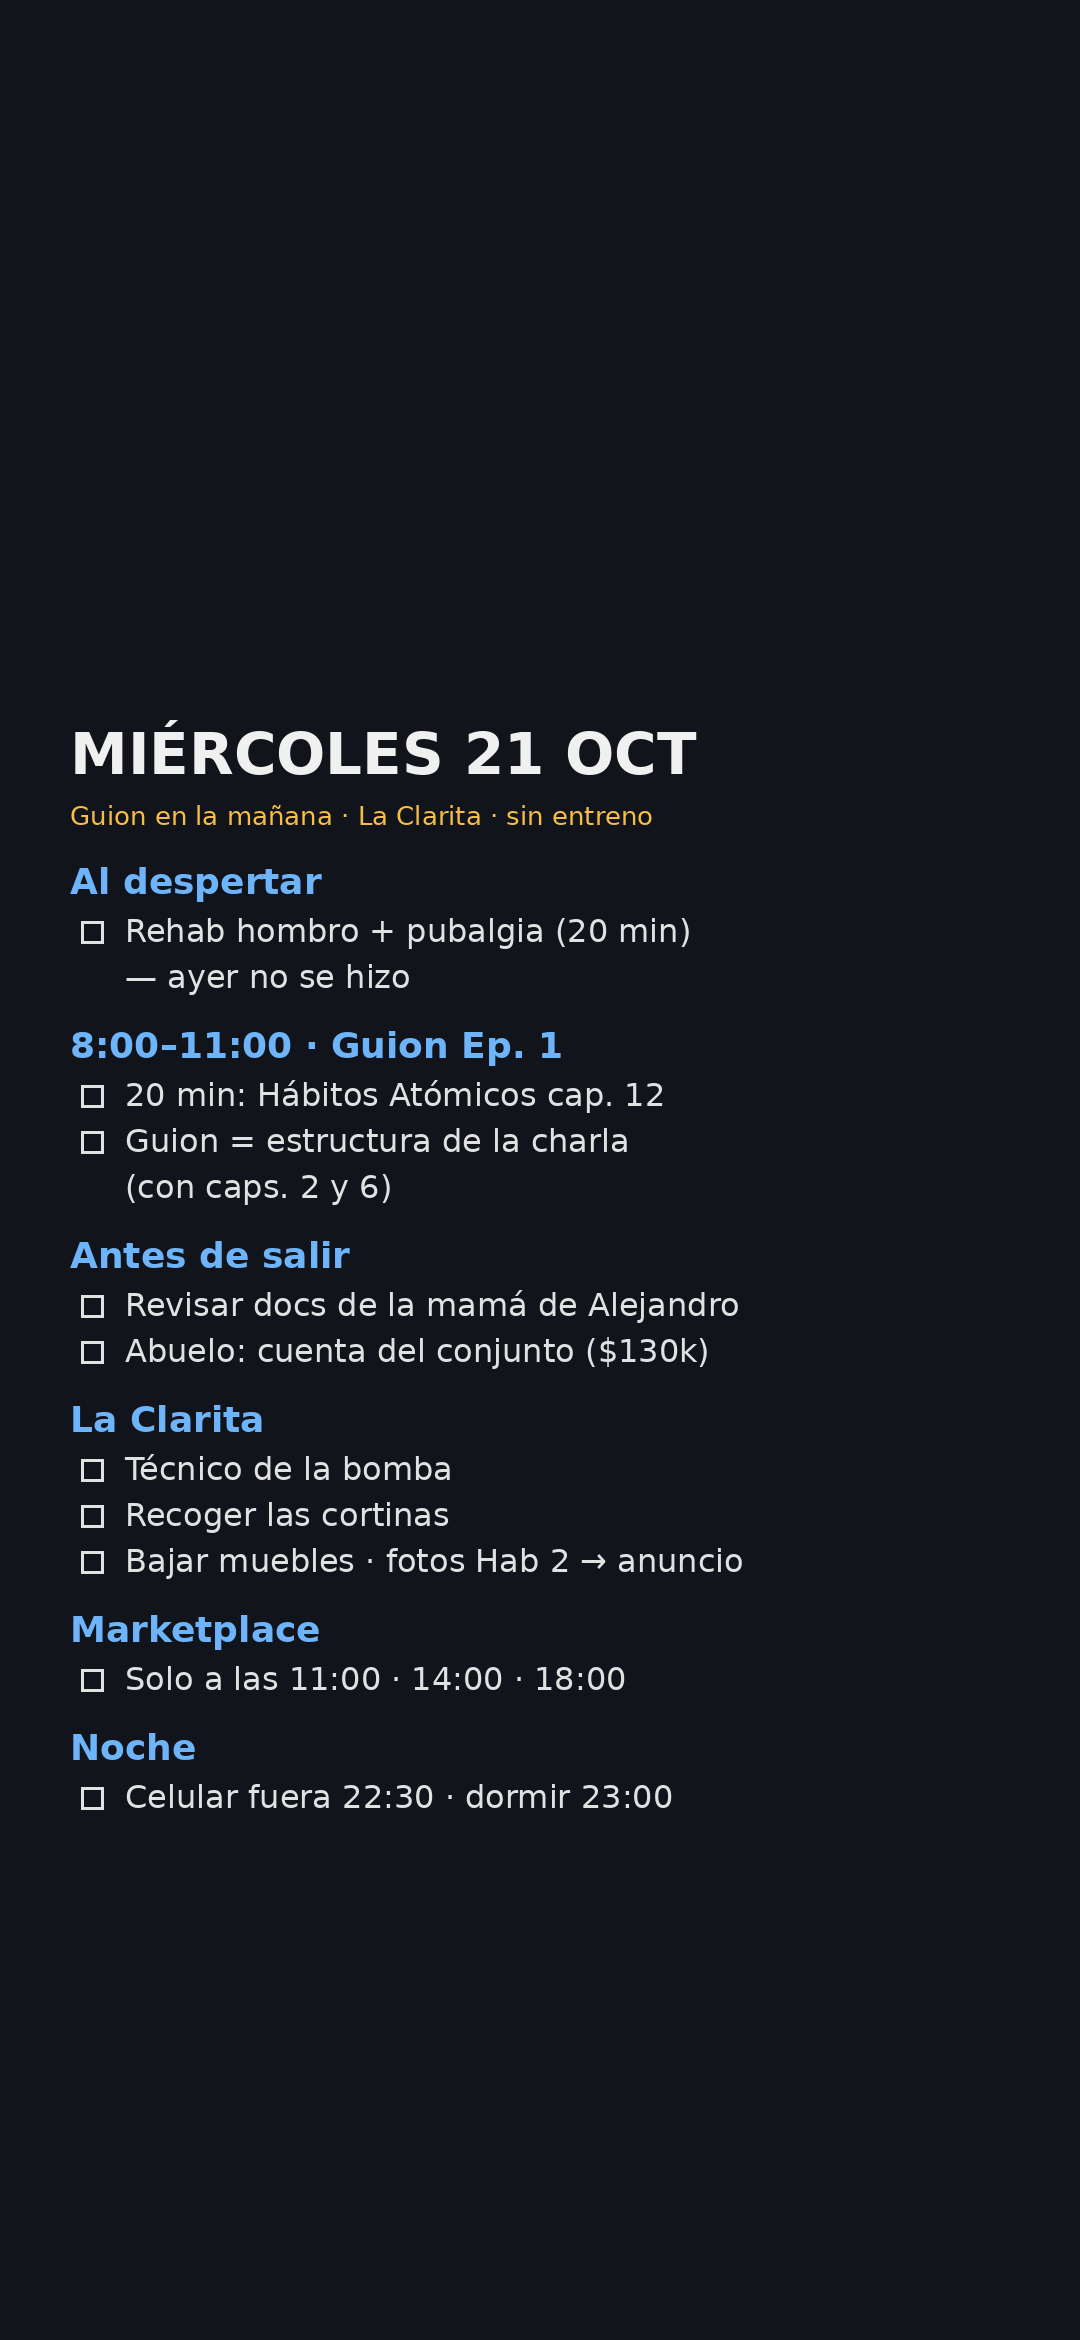
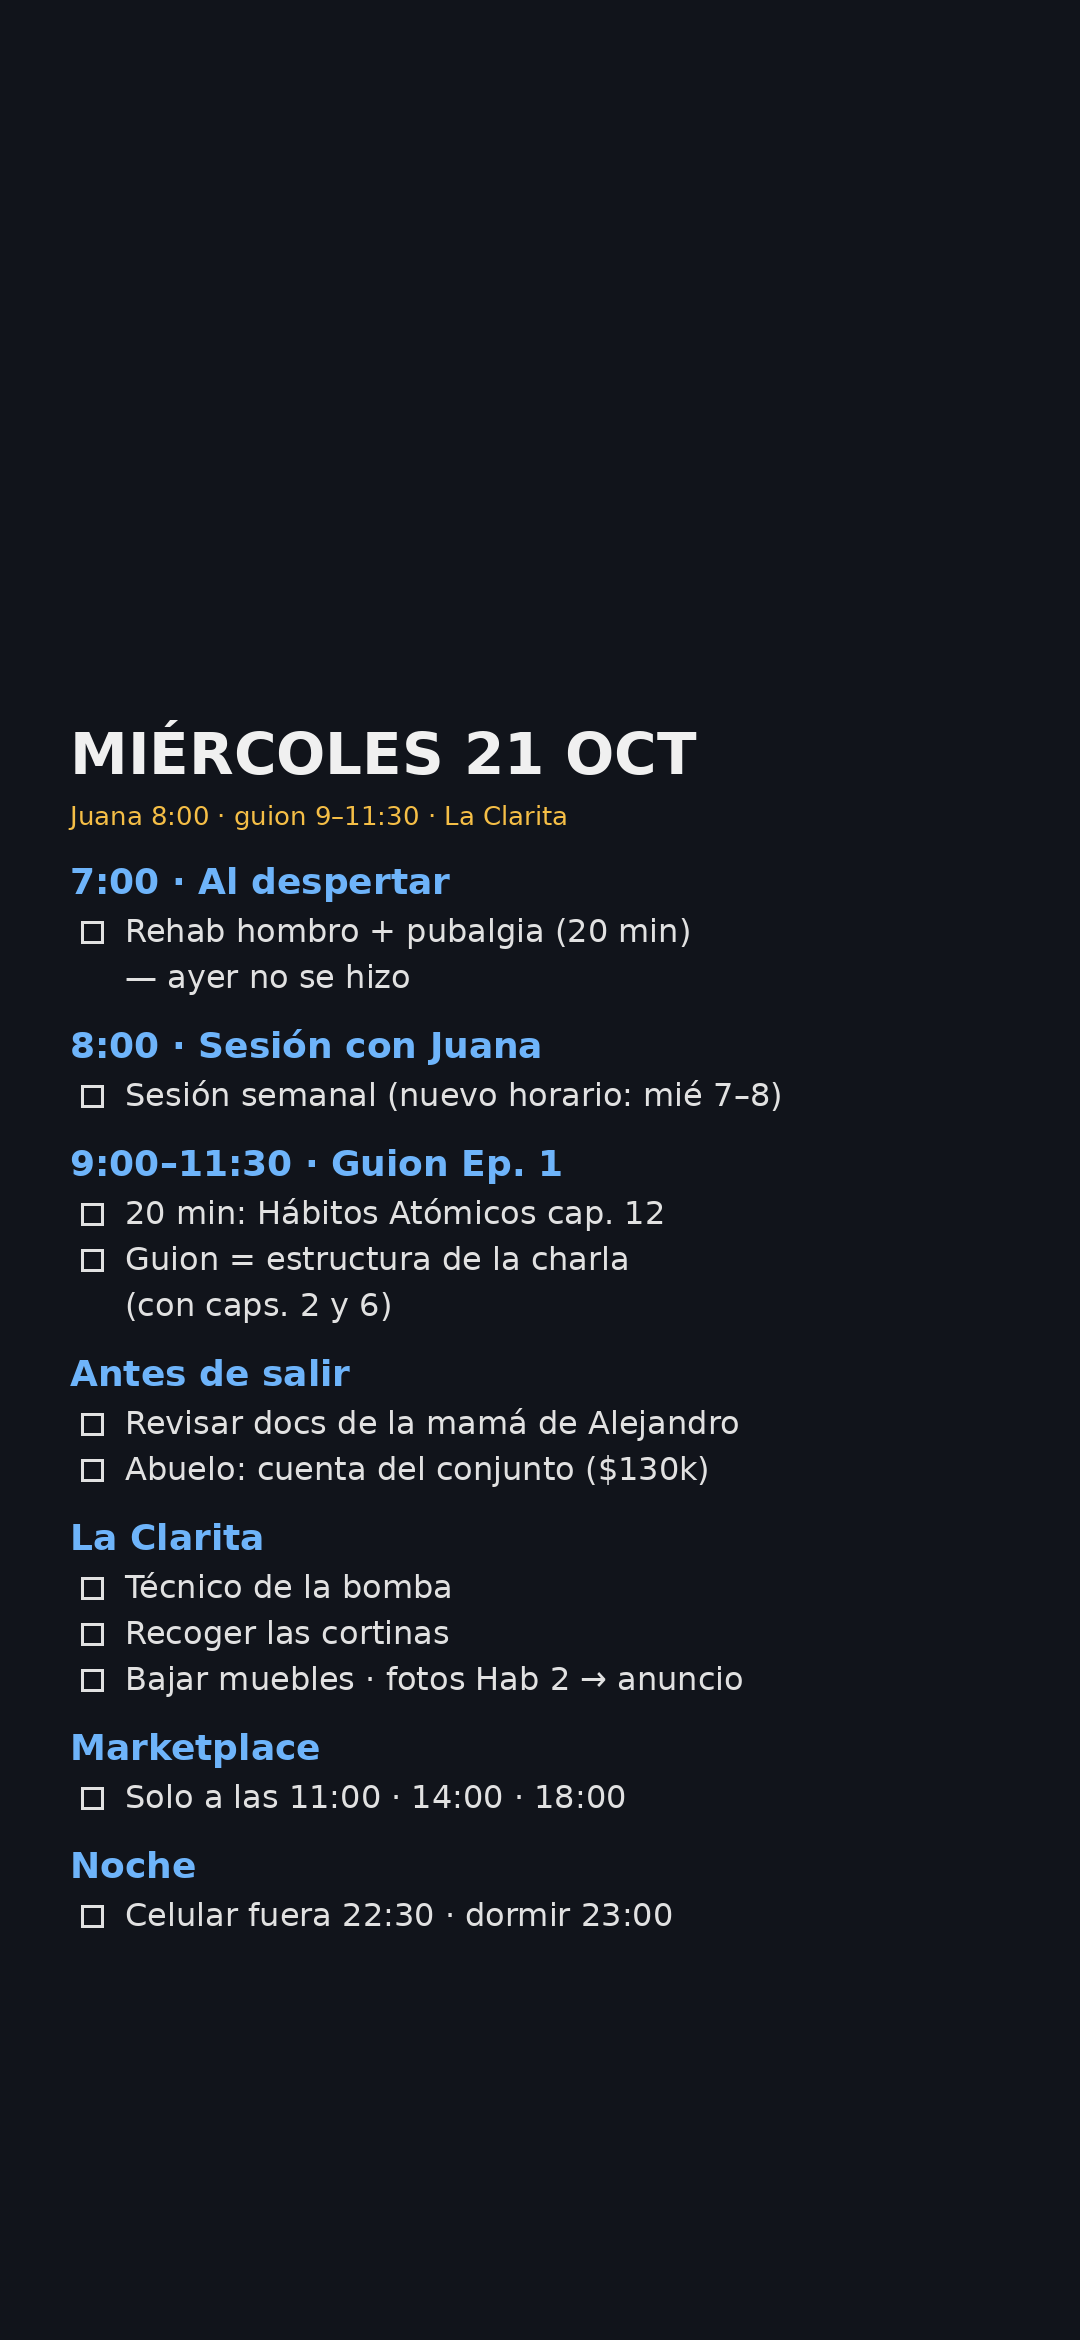
Juana: horario nuevo mié 7–8 (mié 21 a las 8:00); pendientes mié 21 actualizados
Claude-Session: https://claude.ai/code/session_014e4cEhL2WfTnp7vpF1gbZZ

diff --git a/vida/estado_actual.md b/vida/estado_actual.md
@@ -8,7 +8,7 @@
 
 | Ítem | Estado |
 |---|---|
-| **Clientes activos** | 1 — Juana ($300k/mes, subió desde $170k). Horario estable: miércoles 15:00 (confirmado 2026-10-05) |
+| **Clientes activos** | 1 — Juana ($300k/mes, subió desde $170k). **Horario nuevo (desde oct 2026): miércoles 7:00–8:00** (le cambiaron el turno de trabajo a 13:00–19:00). Excepción: mié 21 oct a las 8:00. |
 | **Primer cliente histórico** | Noviembre 2025 (antes del lanzamiento formal de Método Cimientos en abril 2026) |
 | **Ingresos coaching** | $300k/mes (bajó de $470k tras no-fit de Luisa) |
 | **Meta Q2 (ajustada)** | ✅ CUMPLIDA — Juana + Luisa activas |
@@ -205,7 +205,7 @@
 |---|---|---|---|
 | **Lun 19** (La Clarita → Tenjo) | ~~Lectura~~ ❌ no se hizo → pasa al mar 20 (bus) | Antes de salir: audio balance a Simón · mensajes a Alejandro (codeudor + extractos Bancolombia + referencia del coliving), Diego (agregar al grupo), Juana (2 opciones: mar/jue 7:00 o sáb AM) · ~12:30 La Clarita: armar base cama Hab 2 + fotos nuevas · **13:00 visita Juanita** · salir ≤15:30 · **17:00 fisio** en Tenjo (historial hombro + pubalgia) = check-in Ultimate | — |
 | **Mar 20** (La Clarita → Tenjo) | Lectura: ✅ Hábitos Atómicos cap. 2 y 6 · ❌ cap. 12 y Wood (pasan al mié) · ❌ rehab | ✅ utensilios ML · ❌ cortinas (no estaban) · ✅ pie amigos + tablas en carpintería (vie 23) · ✅ Enel verificó → cambio de medidor jue 22 · ◐ muebles al 1er piso · ✅ candado gas · bomba: técnico mié 21 · ❌ $130k (falta la cuenta del abuelo) · Javier sin firmar (confianza, sin urgencia) · Alejandro: llegaron los documentos de la mamá (revisar mié AM) · Marketplace: sin interesados avanzados | ✅ Entreno
-| **Mié 21** | Rehab · 20 min cap. 12 · **Guion Ep. 1 = primer borrador de la estructura de la charla** (con caps. 2 y 6) | Revisar documentos de la mamá de Alejandro → decidir · pedirle al abuelo la cuenta del conjunto ($130k) · La Clarita: técnico de la bomba · recoger cortinas · seguir bajando muebles · actualizar el anuncio con fotos de la Hab 2 | — |
+| **Mié 21** | Rehab 7:00 · **8:00 sesión con Juana** · 9:00–11:30 guion Ep. 1 = primer borrador de la estructura de la charla (20 min antes: cap. 12) | Revisar documentos de la mamá de Alejandro → decidir · pedirle al abuelo la cuenta del conjunto ($130k) · La Clarita: técnico de la bomba · recoger cortinas · seguir bajando muebles · actualizar el anuncio con fotos de la Hab 2 | — |
 | **Jue 22** | Grabación Ep. 1 (una toma) | **Enel: cambio de medidor → pagar $1.25M a don Gregorio** · contrato Hab 2 con datos (revisado por el padrastro) | Entreno 19:00 |
 | **Vie 23** | Edición Ep. 1 (máx. 3 h) + título y thumbnail · 3 min de apertura de la charla → semana del 26 si no alcanza | Recoger las tablas del mesón en la carpintería e instalarlas en la Hab 2 · firma Hab 2 + notaría del pagaré | Entreno 19:00 |
 | **Sáb 24** | — | **Entrega Hab 2** (inventario + llaves) · al firmar Hab 2 → compra Hab 3 | Holgura |
